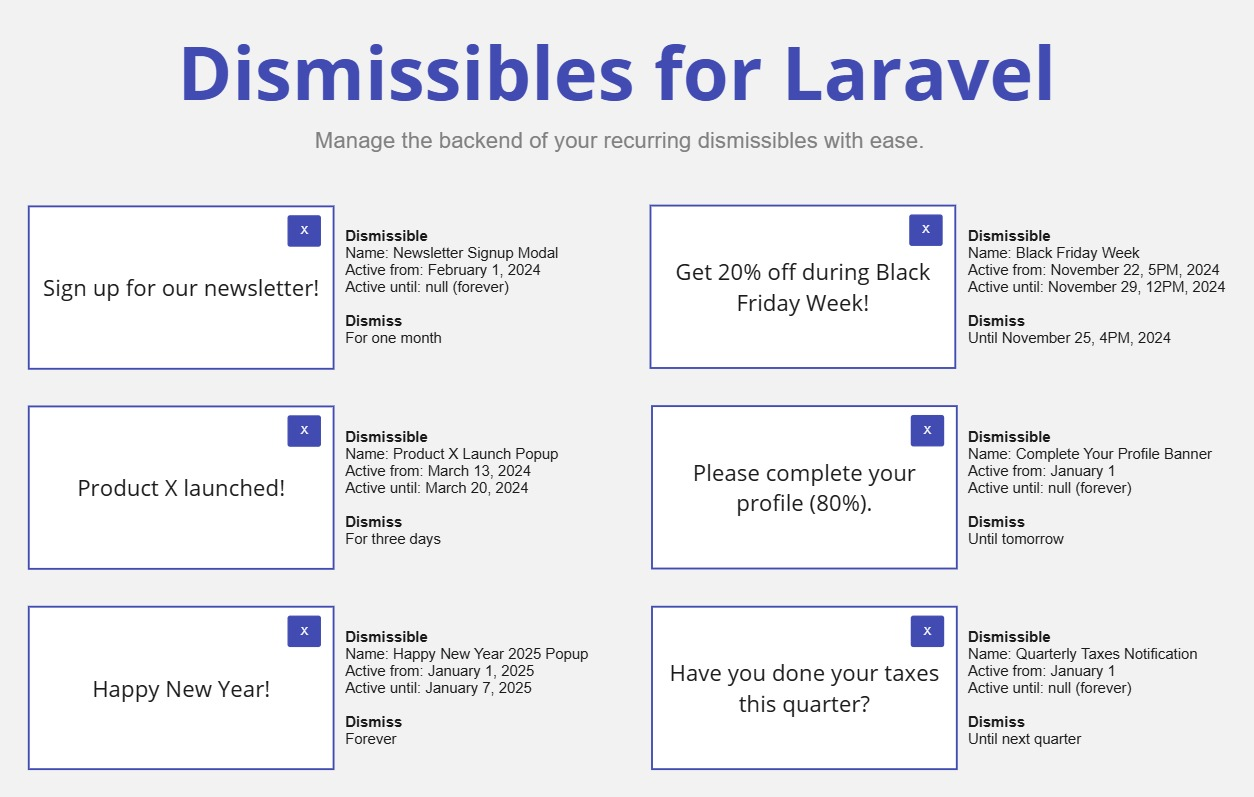
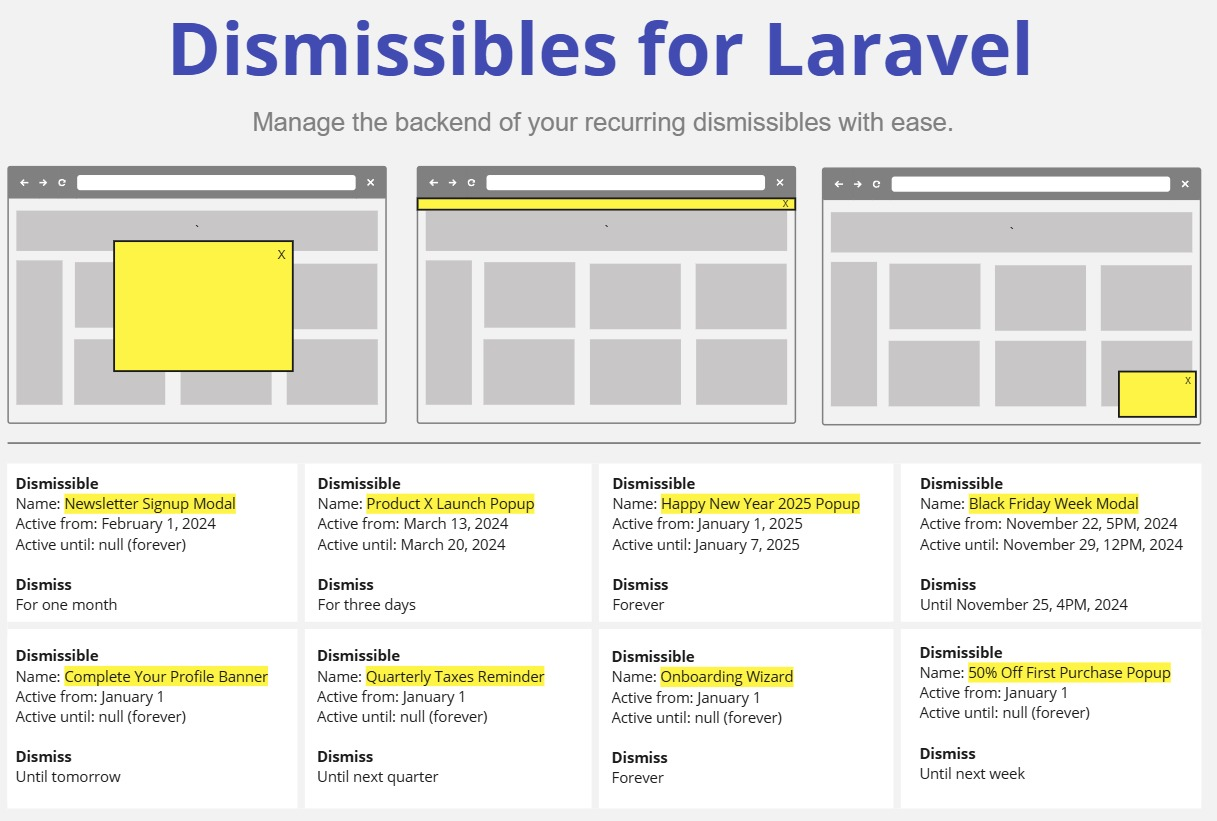
Update readme with new (more abstract) image and info that there are no frontend components in this library.

diff --git a/README.md b/README.md
@@ -2,12 +2,12 @@
 
 ![Dismissibles for Laravel](./images/dismissibles-for-laravel.jpg)
 
-A Laravel package for easily handling recurring, dismissible objects like popups/notifications/modals on the server side.
+A Laravel package for easily managing the visibility of your recurring, dismissible objects like popups/notifications/modals on the backend. This package does not include frontend components, so it's compatible with any frontend you can use.
 
 ## What problem does this solve?
-Say you have a dismissible popup you want to show to every user, daily for a week. Users can dismiss it and it should not show up again for the rest of the day until the next day.
+Say you have a popup you want to show to every user, daily for a week. Users can dismiss it and it should not show up again for the rest of the day until the next day.
 
-This packages handles the complex logic regarding whether the popup (dismissible) should be shown to the current user at the current moment. It's highly customizable, making it very flexible for many scenario's.
+This packages handles the complex logic regarding whether the (dismissible) popup should be shown to the current user at the current moment. It basically handles the visibility of your dismissible. It's highly customizable, making it very flexible for many scenario's.
 
 Because it's serverside we can easily get statistics like who dismissed what, when and where.
 
@@ -98,6 +98,7 @@ class SomeController {
         $showPopup = Dismissibles::shouldShow('Happy New Year 2025 Popup', $user);
         $showPopup = !$user->is_subscribed && Dismissibles::shouldShow('Newsletter signup modal', $user);
         $showPopup = !$user->has_completed_profile && Dismissibles::shouldShow('Complete your profile notification', $user);
+        $showPopup = !$user->has_orders && Dismissibles::shouldShow('50% Off First Purchase Popup', $user);
         
         ...
     }
